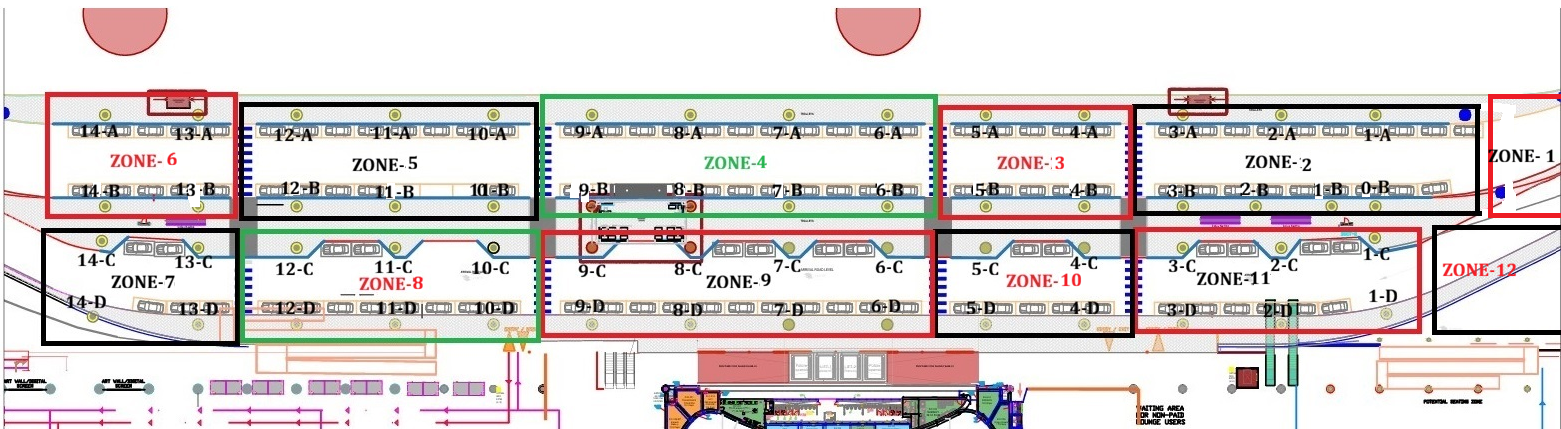
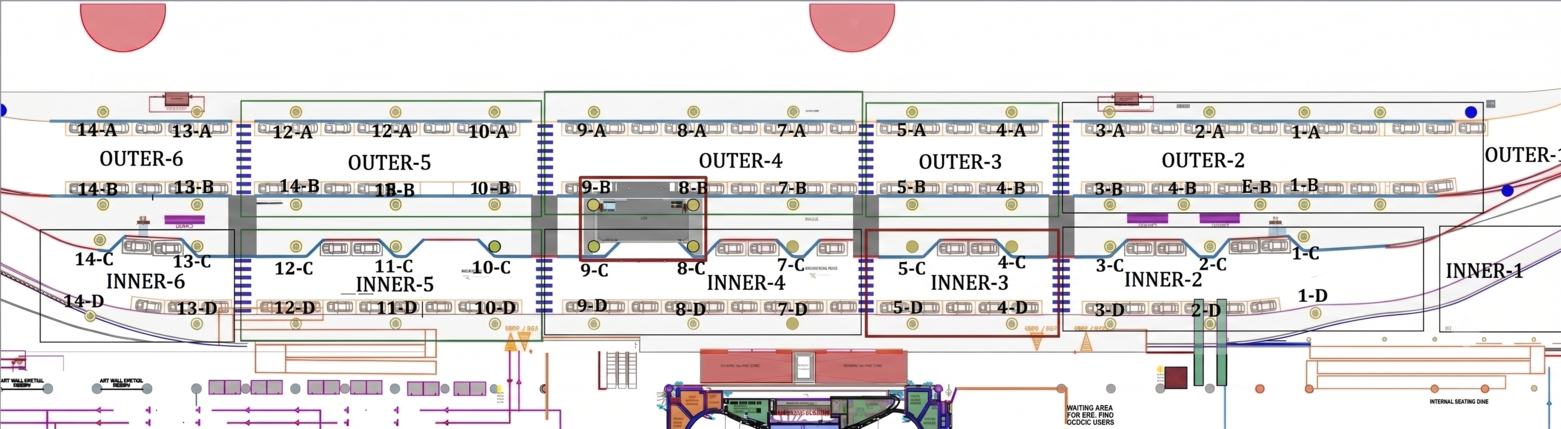
Ramp occupancy map: OUTER/INNER zones, new floor plan, thresholds
- Rename operator-facing zones from "Zone 1..12" to OUTER-1..6 / INNER-1..6
  (zones.name + zone_groups.name) via migration; zone_id PKs and time-series
  history left untouched. Update the dashboard slot labels, tooltips, and the
  alert/zone-config copy to match.
- Replace the ramp floor-plan image with the OUTER/INNER-labelled version and
  cache-bust the URL (?v=) so browsers pick up future swaps.
- Set per-zone occupancy thresholds (max_vehicles) supplied by ops, on the
  group for grouped zones and on the zone for standalones (migration).
- Fix the map showing "—" instead of a real threshold of 0 (0 is falsy in JS),
  preserving the null-vs-zero distinction in buildLogicalZones too.
- Serve /dashboard with Cache-Control: no-cache so operators always revalidate
  to the latest page after a deploy.

diff --git a/cloud/static/dashboard.html b/cloud/static/dashboard.html
@@ -343,7 +343,7 @@ a{color:inherit}
    plotted in % coordinates land in the right spot across all viewports. */
 .zone-map{
   position:relative;width:100%;aspect-ratio:1561/429;
-  background-image:url(/static/zone_map.png);
+  background-image:url(/static/zone_map.png?v=20260608);
   background-size:contain;background-repeat:no-repeat;background-position:top left;
   background-color:#f1f5f9;border:1px solid var(--line);border-radius:12px
 }
@@ -1170,7 +1170,7 @@ body.viewer-mode #nav-feed{display:none !important}
               <tr>
                 <th>Zone ID</th>
                 <th>Name</th>
-                <th title="Which slot on the Overview ramp map this zone feeds into. Floor plan only renders zones whose name (or group name) is one of Zone 1..Zone 12 (case-sensitive).">Map slot</th>
+                <th title="Which slot on the Overview ramp map this zone feeds into. Floor plan only renders zones whose name (or group name) is one of OUTER-1..OUTER-6 or INNER-1..INNER-6 (case-sensitive).">Map slot</th>
                 <th>Ramp Side</th>
                 <th>Camera</th>
                 <th>Max Vehicles</th>
@@ -1250,17 +1250,17 @@ body.viewer-mode #nav-feed{display:none !important}
             <button type="button" class="btn" id="f-zone-group-edit-btn" onclick="openGroupEditor('edit')" title="Edit the selected group" disabled>Edit</button>
             <button type="button" class="btn" id="f-zone-group-new-btn" onclick="openGroupEditor('create')" title="Create a new group">+ New</button>
           </div>
-          <div class="zone-help" style="margin-top:6px">A group aggregates this camera's count with other cameras that cover the same physical zone (e.g. "Zone 5" seen from 4 angles).</div>
+          <div class="zone-help" style="margin-top:6px">A group aggregates this camera's count with other cameras that cover the same physical zone (e.g. "OUTER-5" seen from 4 angles).</div>
 
           <div id="zone-group-creator" hidden style="margin-top:10px;padding:12px 14px;border:1px solid var(--line);border-radius:10px;background:#f8fafc">
             <div id="f-group-editor-title" style="font-weight:700;font-size:13px;color:#0f172a;margin-bottom:8px">New group</div>
             <div class="form-group" style="margin-bottom:8px">
               <label>Name</label>
-              <input id="f-new-group-name" placeholder="Zone 5" oninput="onNewGroupNameInput()">
+              <input id="f-new-group-name" placeholder="OUTER-5" oninput="onNewGroupNameInput()">
             </div>
             <div class="form-group" style="margin-bottom:8px">
               <label>Group ID</label>
-              <input id="f-new-group-id" placeholder="zg-zone-5">
+              <input id="f-new-group-id" placeholder="zg-outer-5">
             </div>
             <div class="form-group" style="margin-bottom:0">
               <label>Max vehicles for the whole group <span style="font-weight:400;color:var(--muted)">(optional)</span></label>
@@ -2509,7 +2509,7 @@ function buildLogicalZones(){
         // Group's max_vehicles is the threshold the operator set on the
         // group itself — independent of any single member camera's
         // max_vehicles, which was an unrelated per-feed setting.
-        max_vehicles: Number(z.group_max_vehicles || 0),
+        max_vehicles: (z.group_max_vehicles == null ? null : Number(z.group_max_vehicles)),
         overstay_count: 0,
         max_dwell_time_s: 0,
         _avg_weighted: 0,
@@ -2546,26 +2546,27 @@ function buildLogicalZones(){
 // (zone_groups.name for grouped zones; zones.name for standalones) since
 // the user confirmed those match the on-image "ZONE-N" labels.
 //
-// Image layout: top row labels go 6→5→4→3→2→1 left-to-right;
-// bottom row labels go 7→8→9→10→11→12 left-to-right. Every entry
-// here renders an overlay — entries without a matching DB zone show
-// up as a gray placeholder so the operator sees the full floor plan,
+// Image layout: the top row is the OUTER ramp, labelled OUTER-6→OUTER-1
+// left-to-right; the bottom row is the INNER ramp, labelled INNER-6→INNER-1
+// left-to-right (these match the relabelled on-image OUTER-/INNER- text).
+// Every entry here renders an overlay — entries without a matching DB zone
+// show up as a gray placeholder so the operator sees the full floor plan,
 // not gaps where unmonitored zones sit.
 const ZONE_MAP_POSITIONS = {
-  // Top row
-  'Zone 6':  { left: 10, top: 22 },
-  'Zone 5':  { left: 31, top: 22 },
-  'Zone 4':  { left: 51, top: 22 },
-  'Zone 3':  { left: 70, top: 22 },
-  'Zone 2':  { left: 85, top: 22 },
-  'Zone 1':  { left: 97, top: 22 },
-  // Bottom row
-  'Zone 7':  { left: 12, top: 66 },
-  'Zone 8':  { left: 27, top: 66 },
-  'Zone 9':  { left: 47, top: 66 },
-  'Zone 10': { left: 64, top: 66 },
-  'Zone 11': { left: 79, top: 66 },
-  'Zone 12': { left: 93, top: 66 },
+  // Top row — outer ramp
+  'OUTER-6': { left: 10, top: 22 },
+  'OUTER-5': { left: 31, top: 22 },
+  'OUTER-4': { left: 51, top: 22 },
+  'OUTER-3': { left: 70, top: 22 },
+  'OUTER-2': { left: 85, top: 22 },
+  'OUTER-1': { left: 97, top: 22 },
+  // Bottom row — inner ramp
+  'INNER-6': { left: 12, top: 66 },
+  'INNER-5': { left: 27, top: 66 },
+  'INNER-4': { left: 47, top: 66 },
+  'INNER-3': { left: 64, top: 66 },
+  'INNER-2': { left: 79, top: 66 },
+  'INNER-1': { left: 93, top: 66 },
 };
 
 function renderThresholdSummary(){
@@ -2602,16 +2603,21 @@ function renderThresholdSummary(){
       continue;
     }
     const count = parseInt(zone.vehicle_count || 0, 10);
-    const max = parseInt(zone.max_vehicles || 0, 10);
+    // Distinguish a real threshold of 0 from "no threshold set". A bare
+    // `max || '—'` renders 0 as '—' because 0 is falsy in JS — so show the
+    // number (including 0) whenever a cap exists, and '—' only when it's null.
+    const rawMax = zone.max_vehicles;
+    const max = (rawMax === null || rawMax === undefined || rawMax === '') ? null : parseInt(rawMax, 10);
+    const maxLabel = (max === null || Number.isNaN(max)) ? '—' : max;
     const pct = Math.min(999, zoneOccupancyPct(zone));
     const matchedBand = OCCUPANCY_BANDS.find(b => b.test(zone));
     const tone = matchedBand ? matchedBand.tone : occupancyTone(pct);
     const barWidth = Math.max(0, Math.min(pct, 100));
     overlays.push(`
       <div class="zone-overlay ${tone}" style="left:${pos.left}%;top:${pos.top}%"
-           title="${escapeHtml(key)}: ${count}/${max || '—'} (${pct.toFixed(0)}%)">
+           title="${escapeHtml(key)}: ${count}/${maxLabel} (${pct.toFixed(0)}%)">
         <div class="zo-name">${escapeHtml(key)}</div>
-        <div class="zo-count">${count}<span class="zo-max"> / ${escapeHtml(max || '—')}</span></div>
+        <div class="zo-count">${count}<span class="zo-max"> / ${escapeHtml(String(maxLabel))}</span></div>
         <div class="zo-bar"><div style="width:${barWidth}%"></div></div>
       </div>
     `);
@@ -3255,11 +3261,11 @@ function renderZoneSlotCell(zone, slotOwners){
   const slot = zoneMapSlot(zone);
   const onMap = slot && Object.prototype.hasOwnProperty.call(ZONE_MAP_POSITIONS, slot);
   if(!onMap){
-    // Slot label doesn't match any "Zone N" floor-plan position.
-    // Most common causes: case mismatch (e.g. "zone 12" vs "Zone 12"),
+    // Slot label doesn't match any OUTER-N / INNER-N floor-plan position.
+    // Most common causes: case mismatch (e.g. "outer-1" vs "OUTER-1"),
     // typo, or an orphan/duplicate zone the operator forgot about.
     const tip = slot
-      ? `Label "${slot}" doesn't match any floor-plan slot. Expected one of Zone 1..Zone 12 (case-sensitive). This zone will NOT appear on the Ramp Map.`
+      ? `Label "${slot}" doesn't match any floor-plan slot. Expected one of OUTER-1..OUTER-6 or INNER-1..INNER-6 (case-sensitive). This zone will NOT appear on the Ramp Map.`
       : 'No display name yet — this zone will NOT appear on the Ramp Map.';
     return `<td><span style="color:#999;font-style:italic" title="${escapeHtml(tip)}">— not mapped</span></td>`;
   }

diff --git a/cloud/main.py b/cloud/main.py
@@ -207,7 +207,16 @@ async def root():
 
 @app.get("/dashboard")
 async def dashboard():
-    return FileResponse(_STATIC_DIR / "dashboard.html")
+    # no-cache: the browser must revalidate the dashboard HTML on every load.
+    # FileResponse still sends an ETag, so an unchanged page returns a cheap
+    # 304 — but after a deploy (new JS, relabelled zones, etc.) operators
+    # immediately get the fresh page instead of a heuristically-cached old
+    # copy. Static assets that change (e.g. the ramp map image) are versioned
+    # via a ?v= query string in dashboard.html.
+    return FileResponse(
+        _STATIC_DIR / "dashboard.html",
+        headers={"Cache-Control": "no-cache"},
+    )
 
 
 @app.get("/static/alert_images/{filename}")